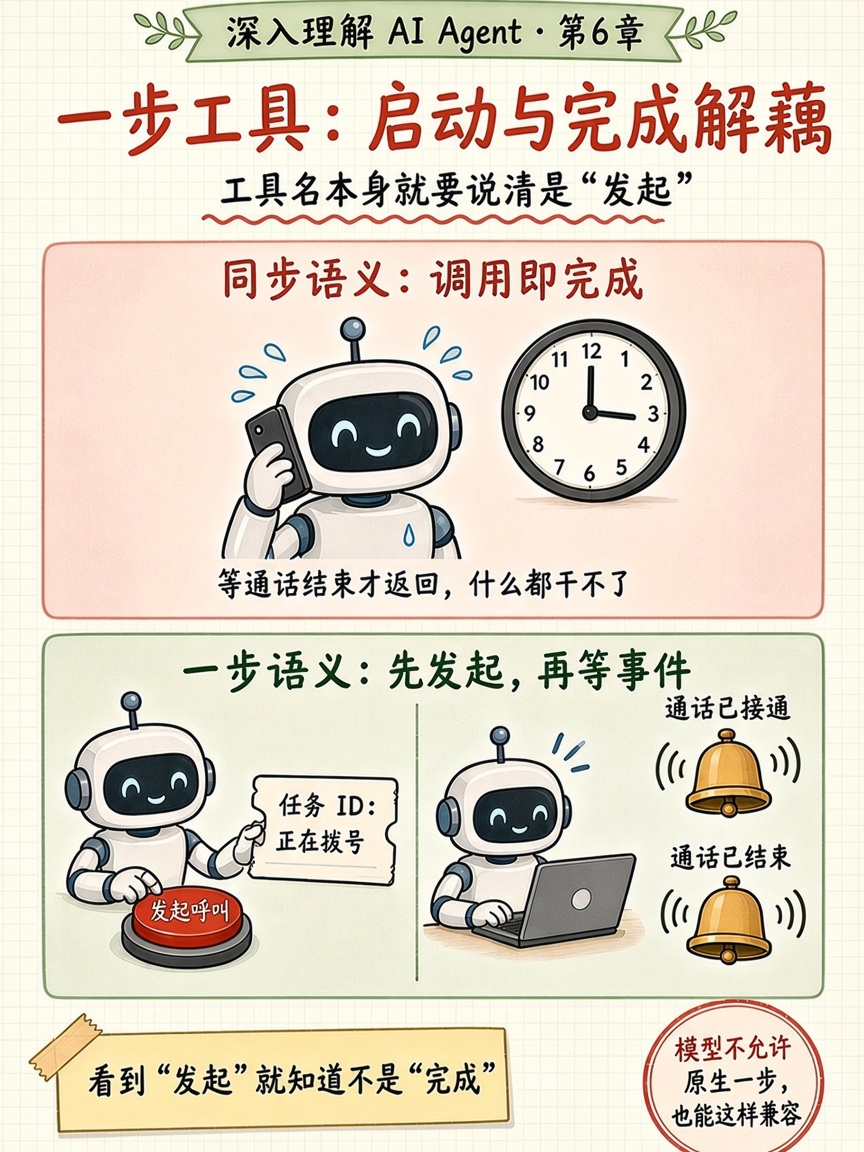
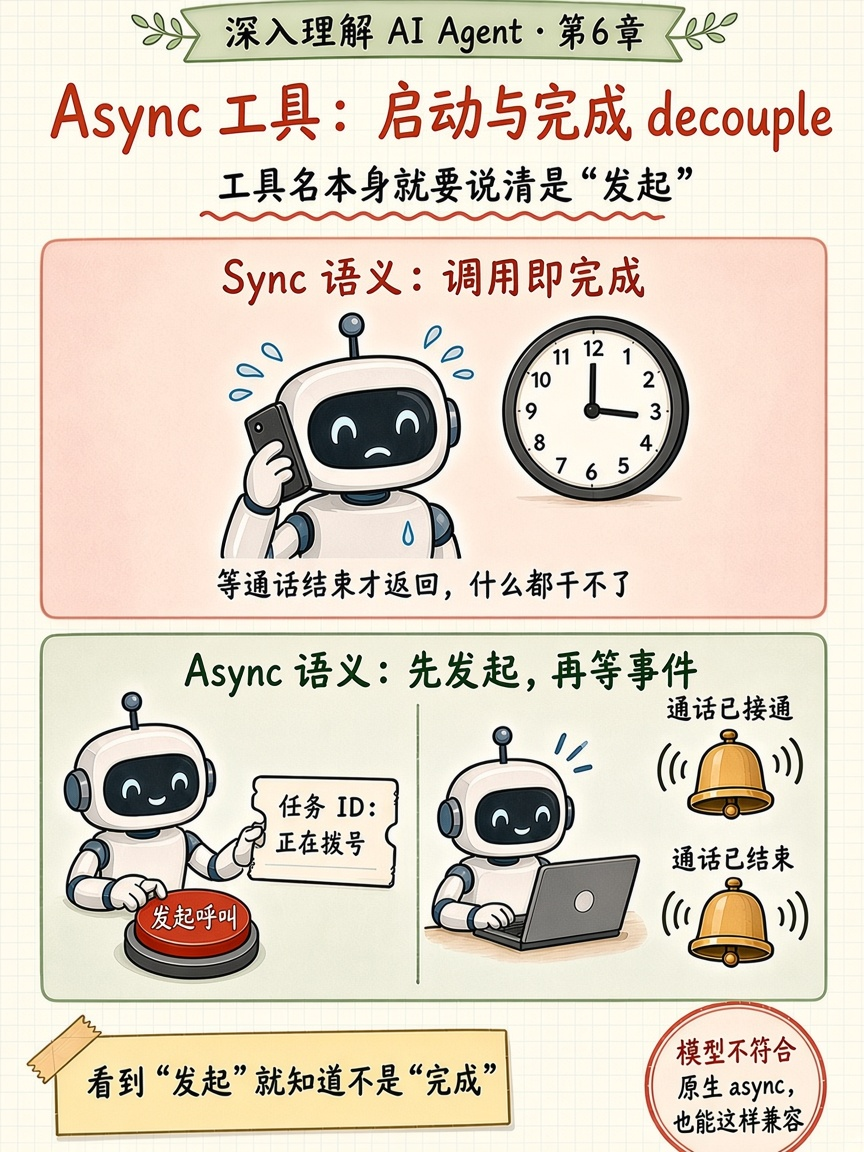
Fix async tool card to use English sync/async terms
Per review on #15, redraw 04-async-tool-semantics with the English terms sync, async, and decouple so the image model no longer has to render 同步, 异步, or 解耦.

Changed region(s): [[0.0312, 0.0, 0.9688, 1.0], [0.5312, 0.5, 0.7188, 0.5312], [0.125, 0.5938, 0.1562, 0.625]]

diff --git a/notes/progress.md b/notes/progress.md
@@ -568,7 +568,7 @@
 | 2026-11-10 | book/deep-ai-agent/06-interaction/01-two-axes | notes/cards/book-deep-ai-agent/06-interaction/01-two-axes.png | done score=87 attempt=1 |
 | 2026-11-10 | book/deep-ai-agent/06-interaction/02-event-driven | notes/cards/book-deep-ai-agent/06-interaction/02-event-driven.png | exhaust score=83 attempt=1 |
 | 2026-11-10 | book/deep-ai-agent/06-interaction/03-event-strategies | notes/cards/book-deep-ai-agent/06-interaction/03-event-strategies.png | done score=89 attempt=2 |
-| 2026-11-10 | book/deep-ai-agent/06-interaction/04-async-tool-semantics | notes/cards/book-deep-ai-agent/06-interaction/04-async-tool-semantics.png | exhaust score=79 attempt=4 |
+| 2026-11-10 | book/deep-ai-agent/06-interaction/04-async-tool-semantics | notes/cards/book-deep-ai-agent/06-interaction/04-async-tool-semantics.png | done score=95 attempt=5 |
 | 2026-11-10 | book/deep-ai-agent/06-interaction/05-voice-paradigms | notes/cards/book-deep-ai-agent/06-interaction/05-voice-paradigms.png | done score=87 attempt=1 |
 | 2026-11-10 | book/deep-ai-agent/06-interaction/06-fast-slow-thinking | notes/cards/book-deep-ai-agent/06-interaction/06-fast-slow-thinking.png | done score=89 attempt=1 |
 | 2026-11-10 | book/deep-ai-agent/06-interaction/07-computer-use-loop | notes/cards/book-deep-ai-agent/06-interaction/07-computer-use-loop.png | exhaust score=84 attempt=2 |
